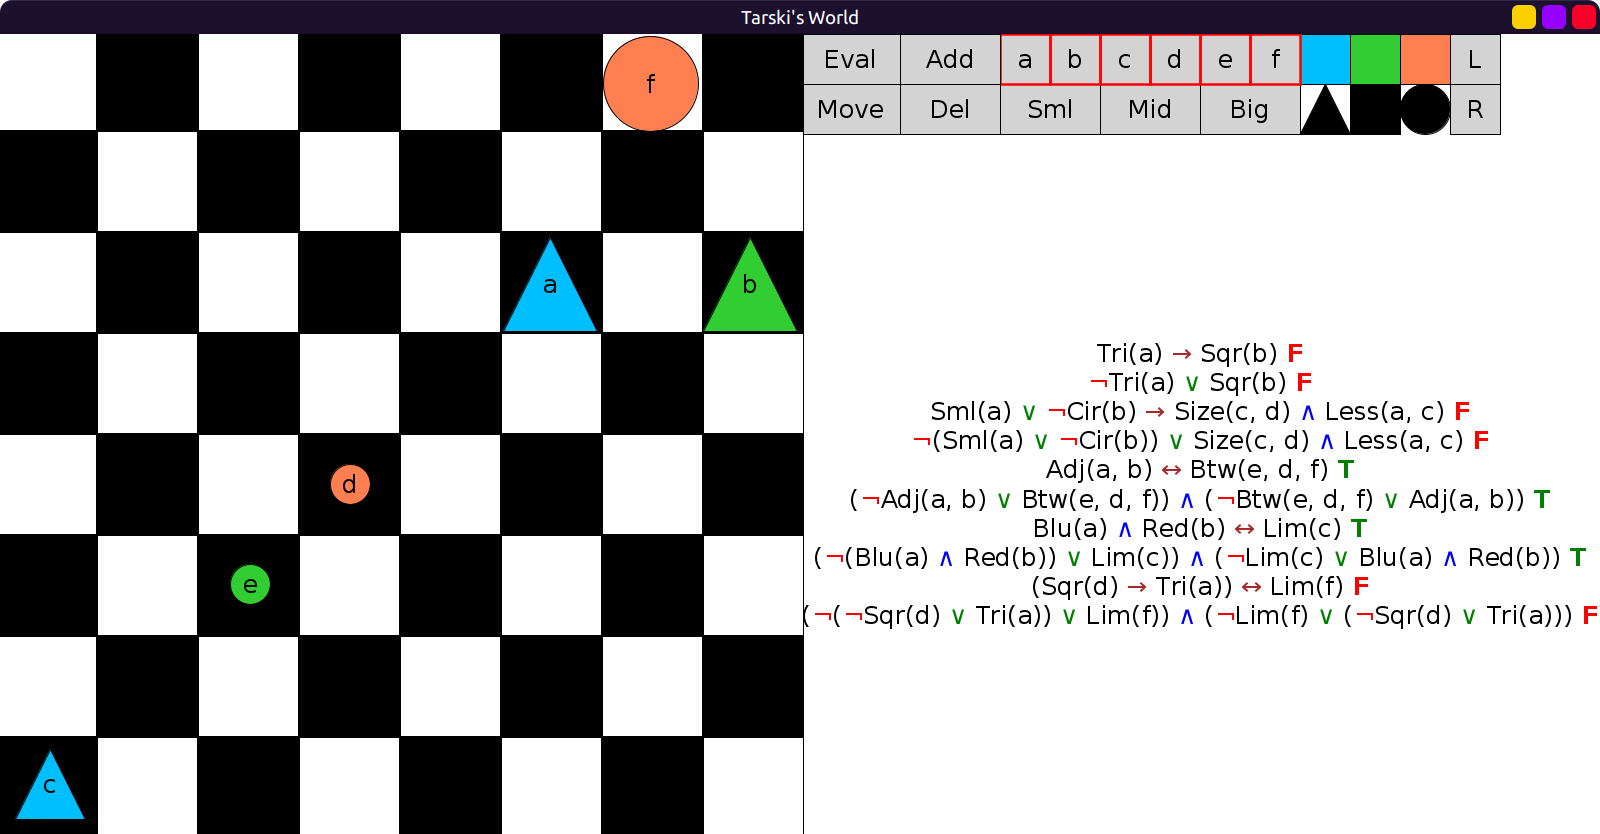
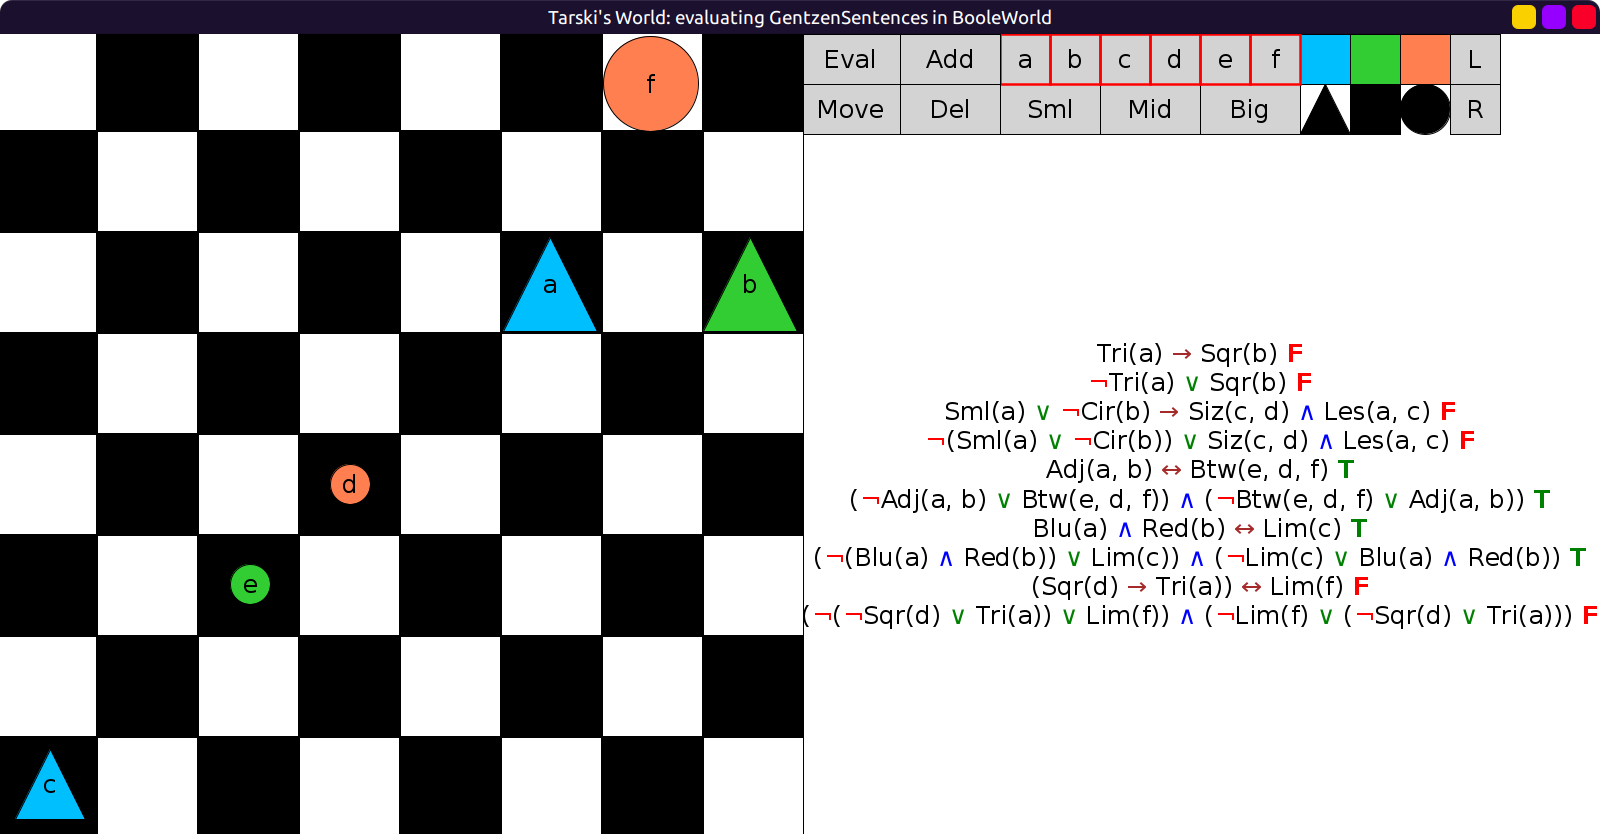
rework ex18

Changed region(s): [[0.5625, 0.4676, 0.9375, 0.5612], [0.3438, 0.0, 0.6562, 0.0312]]

diff --git a/examples/propositional-logic/18/README.md b/examples/propositional-logic/18/README.md
@@ -15,7 +15,7 @@ the expressive power of the language (but while sacrificing convenience.)
 
 - `GentzenSentences` contains sentences involving `↔` and `→` in the odd-numbered slots.
 - In the even numbered slots, write equivalent sentences using only
-  the connectives `∧`, `∨` and `¬`.
+  the connectives `∧`, `∨` and `¬` (or ASCII equiv `&`, `|`, `~`):
   - eliminate the double negations that happen as a result,
   - but no need to simplify further with DeMorgan Laws.
 - Evaluate your sentences in:
@@ -31,41 +31,57 @@ the expressive power of the language (but while sacrificing convenience.)
 
 Consider:
 
+```scala
 (Tri(a) → Mor(a,b)) ↔ (Lft(b,c) ∨ ¬Bel(b,c))
+```
 
 We will replace the redundant conditionals.
 First we replace the biconditional A ↔ B in the middle by using (A → B) ∧ (B → A):
 
+```scala
 ((Tri(a) → Mor(a,b)) → (Lft(b,c) ∨ ¬Bel(b,c))) ∧
 ((Lft(b,c) ∨ ¬Bel(b,c)) → (Tri(a) → Mor(a,b)))
+```
 
 Now replace the conditionals in A → B and in B → A with ¬A ∨ B and ¬B ∨ A:
 
+```scala
 (¬(Tri(a) → Mor(a,b)) ∨ (Lft(b,c) ∨ ¬Bel(b,c))) ∧
 (¬(Lft(b,c) ∨ ¬Bel(b,c)) ∨ (Tri(a) → Mor(a,b)))
+```
 
 Finally replace the conditional in Tri(a) → Mor(a,b):
 
+```scala
 (¬(¬Tri(a) ∨ Mor(a,b)) ∨ (Lft(b,c) ∨ ¬Bel(b,c))) ∧
 (¬(Lft(b,c) ∨ ¬Bel(b,c)) ∨ (¬Tri(a) ∨ Mor(a,b)))
+```
 
 ### Second example
 
 Consider:
 
+```scala
 Rgt(a,b) ↔ (Lft(a,b) ↔ Les(a,a))
+```
 
-First replace the first biconditional:
+First, we replace the leftmost biconditional:
 
+```scala
 (Rgt(a,b) → (Lft(a,b) ↔ Les(a,a))) ∧
 ((Lft(a,b) ↔ Les(a,a)) → Rgt(a,b))
+```
 
-Now replace the biconditional Left ↔ Less
+Now replace the biconditional Lft ↔ Les
 
+```scala
 (Rgt(a,b) → ((Lft(a,b) → Les(a,a)) ∧ (Les(a,a) → Lft(a,b)))) ∧
 (((Lft(a,b) → Les(a,a)) ∧ (Les(a,a) → Lft(a,b))) → Rgt(a,b))
+```
 
 Now replace the conditionals
 
+```scala
 (¬Rgt(a,b) ∨ ((¬Lft(a,b) ∨ Les(a,a)) ∧ (¬Les(a,a) ∨ Lft(a,b)))) ∧
 (¬((¬Lft(a,b) ∨ Les(a,a)) ∧ (¬Les(a,a) ∨ Lft(a,b))) ∨ Rgt(a,b))
+```

diff --git a/examples/propositional-logic/18/solution.md b/examples/propositional-logic/18/solution.md
@@ -1,5 +1,7 @@
 # 18 - solution
 
+Here are all the sentences:
+
 ```scala
 val GentzenSentences = Seq(
   fof"Tri(a) → Sqr(b)",
